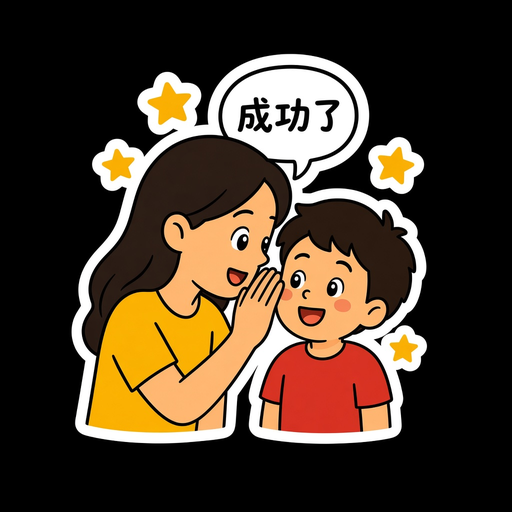
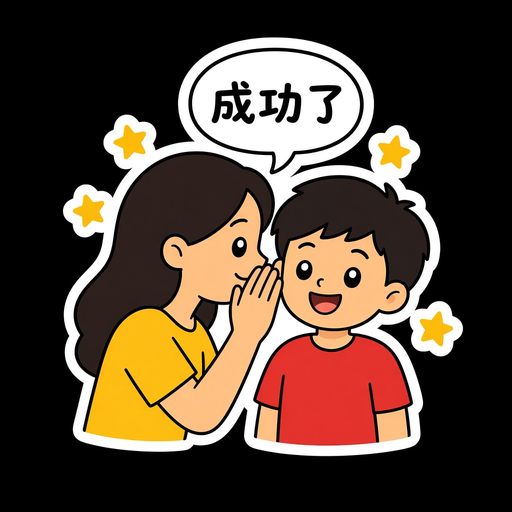
[Cursor] habit: redraw whisper mom+child only (stamp 20261016e)
Full GenerateImage re-render of img-ca-whisper-ok — exactly two people,
no blue-shirt third adult; bump HABIT_MEDIA_V / LOCAL_ASSET_V.

Changed region(s): [[0.125, 0.0625, 0.9062, 0.9062]]

diff --git a/mobile/ios/App/App/public/index.html b/mobile/ios/App/App/public/index.html
@@ -2,7 +2,7 @@
 <html lang="zh-CN">
 <head>
   <meta name="mytimetree-mode" content="local-capacitor" />
-  <meta name="mytimetree-web-build" content="20261016d" />
+  <meta name="mytimetree-web-build" content="20261016e" />
   <meta charset="UTF-8" />
   <meta name="viewport" content="width=device-width, initial-scale=1, maximum-scale=1, user-scalable=no, viewport-fit=cover" />
   <title>MyTimeTree</title>
@@ -328,14 +328,14 @@
   </div>
 
     <script src="./local/sql-wasm.js"></script>
-  <script src="./local/db.js?v=20261016d"></script>
-  <script src="./local/habit-seed.js?v=20261016d"></script>
-  <script src="./local/store.js?v=20261016d"></script>
-  <script src="./local/habits.js?v=20261016d"></script>
-  <script src="./local/bridge.js?v=20261016d"></script>
-  <script src="./local/lock.js?v=20261016d"></script>
+  <script src="./local/db.js?v=20261016e"></script>
+  <script src="./local/habit-seed.js?v=20261016e"></script>
+  <script src="./local/store.js?v=20261016e"></script>
+  <script src="./local/habits.js?v=20261016e"></script>
+  <script src="./local/bridge.js?v=20261016e"></script>
+  <script src="./local/lock.js?v=20261016e"></script>
   <script src="./local/html2canvas.min.js"></script>
-  <script src="./local/share.js?v=20261016d"></script>
-  <script src="./app.js?v=20261016d"></script>
+  <script src="./local/share.js?v=20261016e"></script>
+  <script src="./app.js?v=20261016e"></script>
 </body>
 </html>

diff --git a/src/mytimetree/static/portal/app.js b/src/mytimetree/static/portal/app.js
@@ -53,7 +53,7 @@
     bird: `/static/portal/ornaments/bird.png?v=${ASSET_V}`,
   };
 
-  const HABIT_MEDIA_V = "20261016d";
+  const HABIT_MEDIA_V = "20261016e";
   // Tip: bright star (icon-tip-seed path overwritten; icon-tip-star alias also shipped)
   const HABIT_TIP_ICON = `/static/portal/habit/icon-tip-star.png?v=${HABIT_MEDIA_V}`;
   const HABIT_TIP_ICON_2X = `/static/portal/habit/icon-tip-star@2x.png?v=${HABIT_MEDIA_V}`;

diff --git a/mobile/ios/App/App/public/app.js b/mobile/ios/App/App/public/app.js
@@ -53,7 +53,7 @@
     bird: `./ornaments/bird.png?v=${ASSET_V}`,
   };
 
-  const HABIT_MEDIA_V = "20261016d";
+  const HABIT_MEDIA_V = "20261016e";
   // Tip: bright star (icon-tip-seed path overwritten; icon-tip-star alias also shipped)
   const HABIT_TIP_ICON = `./habit/icon-tip-star.png?v=${HABIT_MEDIA_V}`;
   const HABIT_TIP_ICON_2X = `./habit/icon-tip-star@2x.png?v=${HABIT_MEDIA_V}`;
